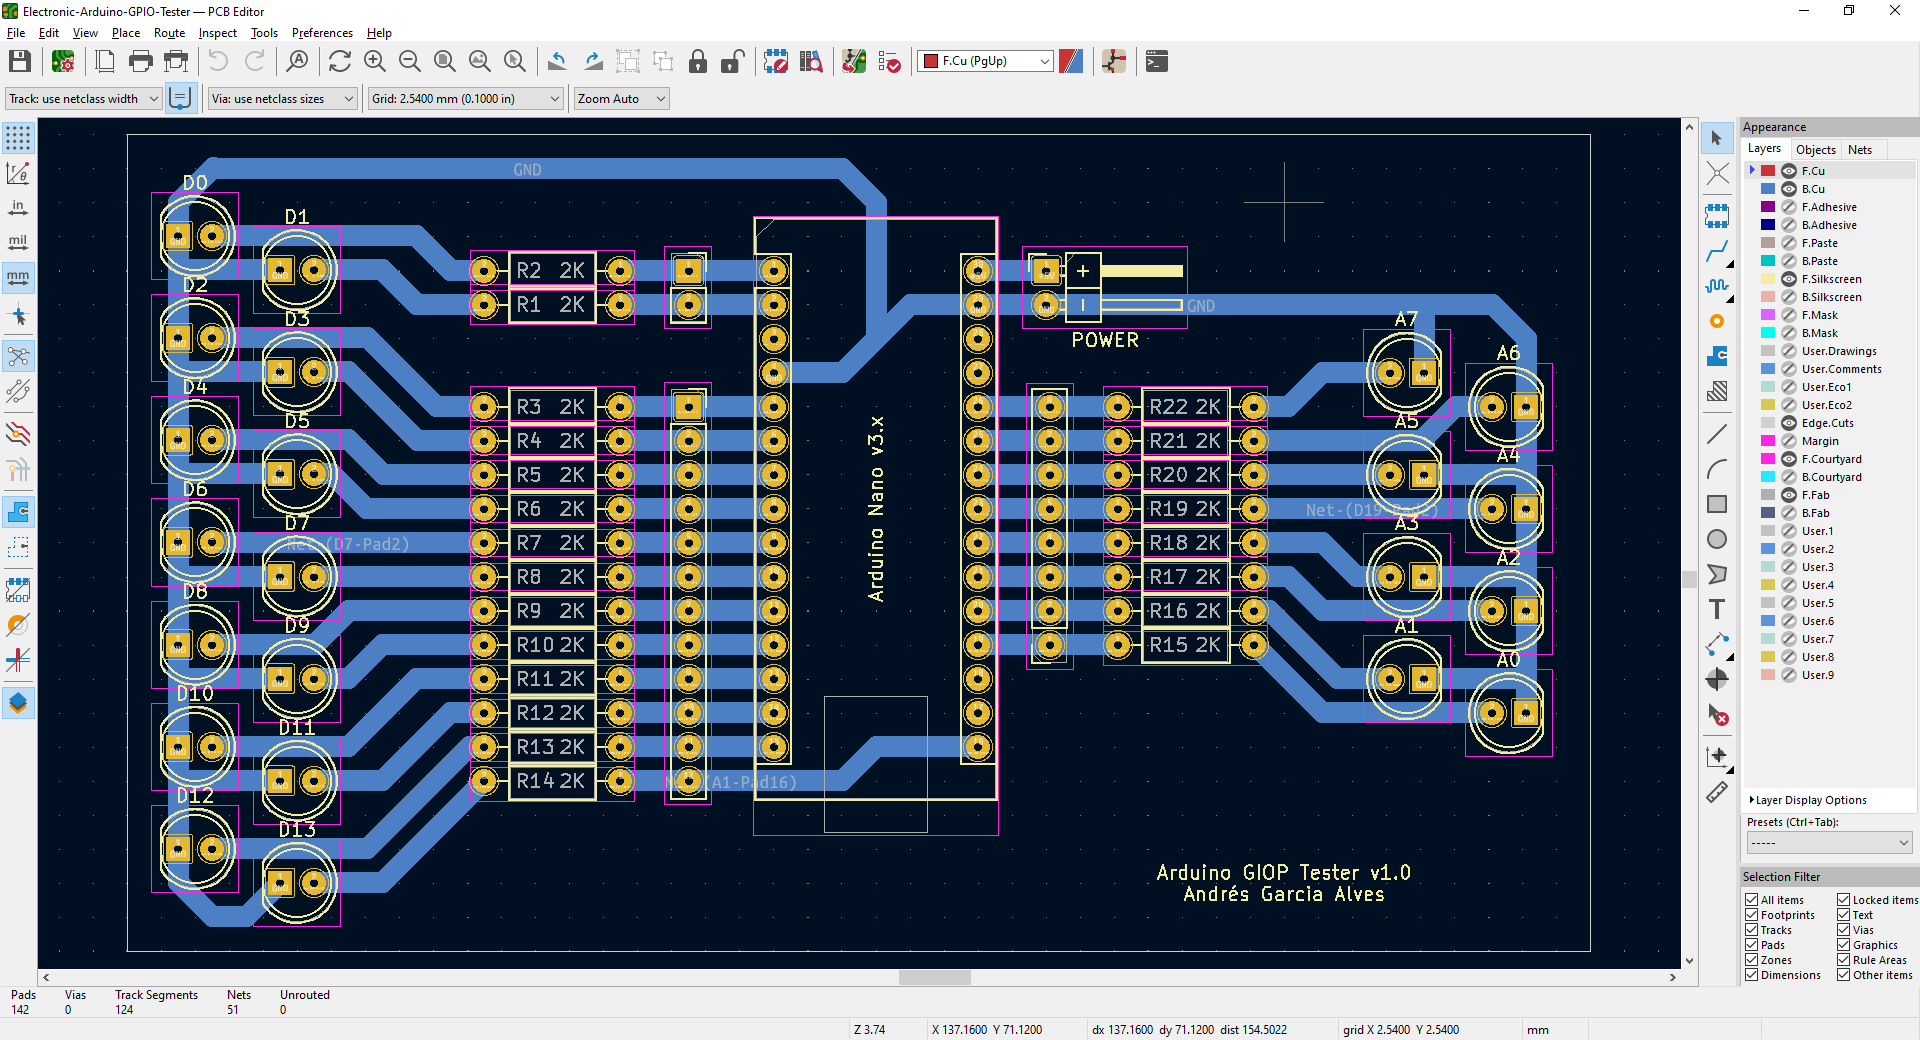
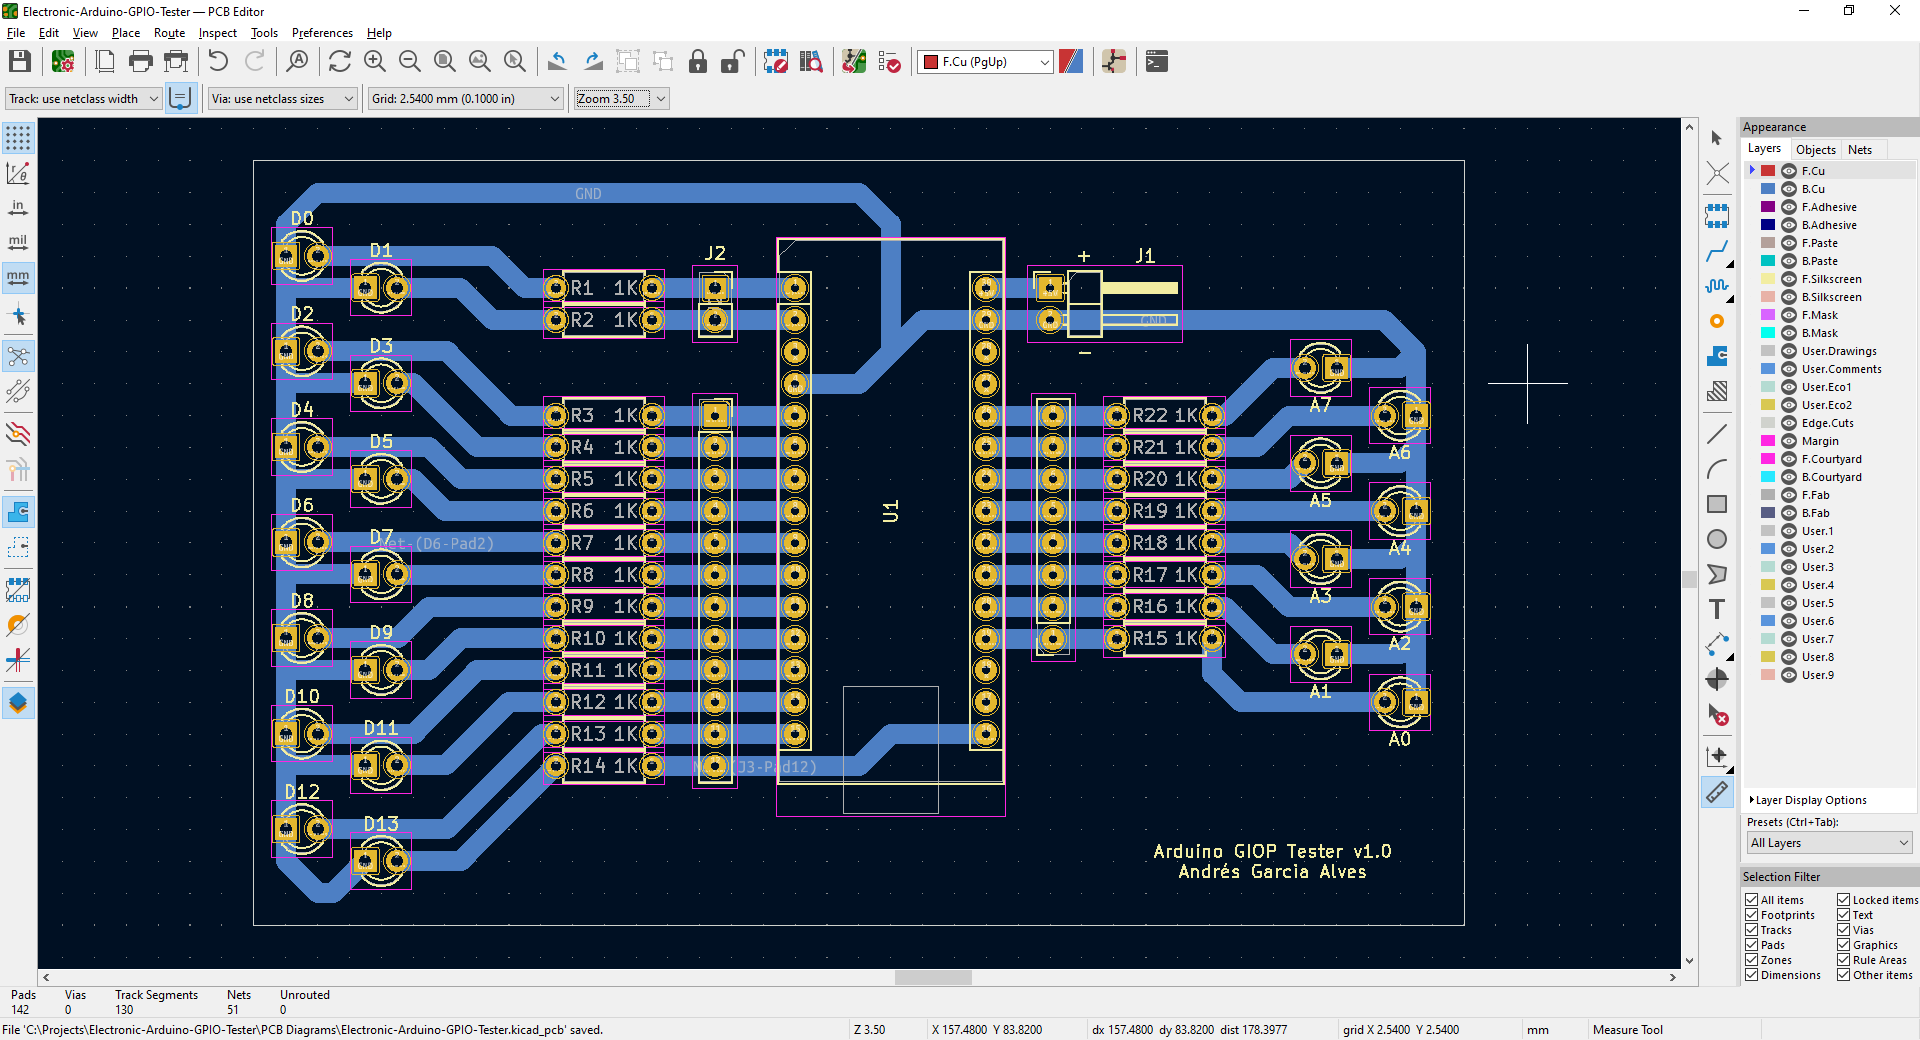
pcb size optimization

diff --git a/README.md b/README.md
@@ -7,8 +7,8 @@ Electronic proyect for easy test of Arduino Nano/UNO analog and digital (GPIO) p
 This project use the following electronic components:
 - 1 x Arduino Nano v3.0
 - 2 x Connector pins
-- 22 x LED 5mm
-- 22 x 2k ohm resistors
+- 22 x LED 3mm
+- 22 x 1k ohm resistors
 
 &nbsp;
 
